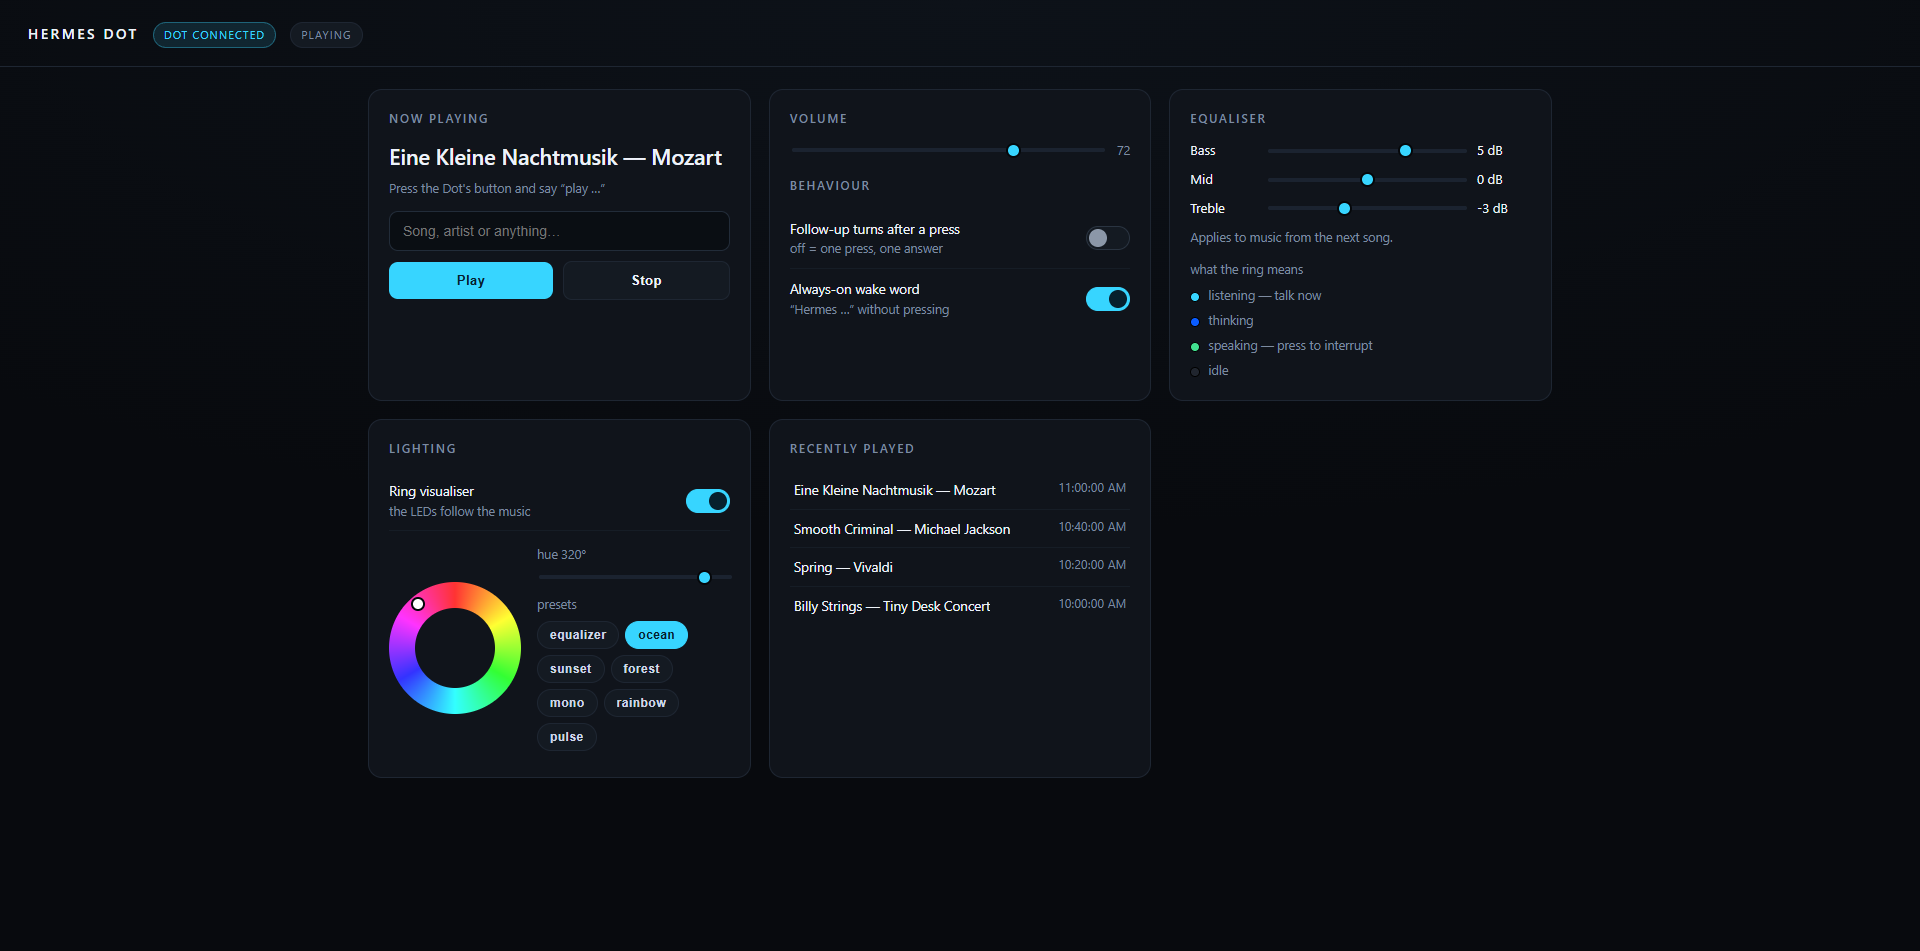
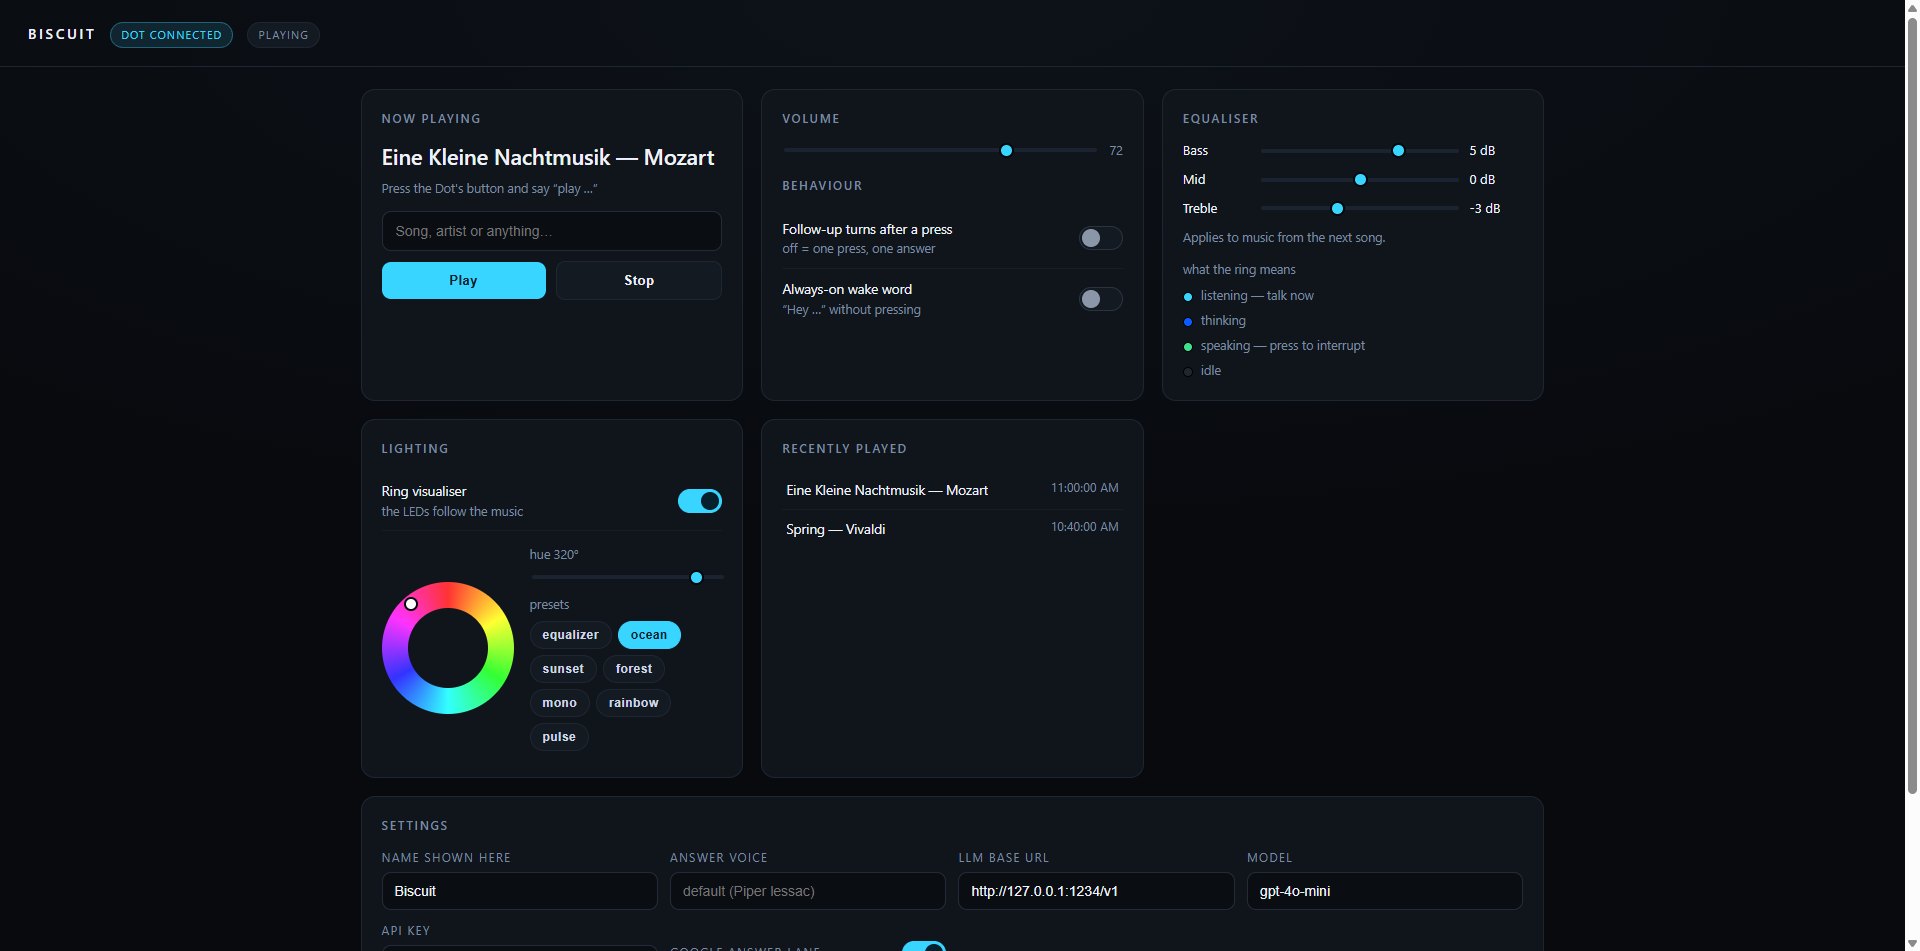
rename to Biscuit, add Settings panel (LLM url/model/key, Google lane, voice)

diff --git a/hermes_app/dashboard.py b/hermes_app/dashboard.py
@@ -22,6 +22,8 @@ DEFAULTS = {
     "volume": 60,
     "favourites": [],
     "lighting": {"enabled": True, "preset": "equalizer", "hue": 200, "brightness": 1.0},
+    "settings": {"title": "Biscuit", "llm_url": "", "llm_model": "", "llm_key": "",
+                 "google": True, "voice": ""},
 }
 
 
@@ -85,7 +87,7 @@ def eq_filter():
 
 
 PAGE = """<!doctype html><html><head><meta charset="utf-8">
-<title>Hermes Dot</title>
+<title>Biscuit</title>
 <meta name="viewport" content="width=device-width,initial-scale=1">
 <style>
 :root{--bg:#080a0e;--panel:#10141b;--line:#1e2632;--fg:#eef3fa;--dim:#7d8ba0;
@@ -143,6 +145,14 @@ input[type=range]::-webkit-slider-thumb{appearance:none;width:15px;height:15px;
 #wheel:after{content:"";position:absolute;inset:26px;border-radius:50%;background:var(--panel)}
 #wknob{position:absolute;width:14px;height:14px;border-radius:50%;background:#fff;
   border:2px solid #05070a;transform:translate(-50%,-50%);pointer-events:none;z-index:2}
+.full{grid-column:1/-1}
+.grid2{display:grid;gap:12px;grid-template-columns:repeat(auto-fit,minmax(240px,1fr))}
+.grid2 label{display:grid;gap:6px;font-size:12px;color:var(--dim);
+  text-transform:uppercase;letter-spacing:.1em}
+.grid2 input{background:#0a0e13;border:1px solid #222c39;color:var(--fg);
+  border-radius:9px;padding:10px 12px;font-size:14px;letter-spacing:0}
+.grid2 label.tgl{display:flex;align-items:center;justify-content:space-between;
+  text-transform:uppercase}
 .legend{display:grid;gap:7px;margin-top:8px;font-size:12.5px;color:var(--dim)}
 .legend i{display:inline-block;width:10px;height:10px;border-radius:50%;margin-right:8px;
   vertical-align:middle;border:1px solid #000}
@@ -151,7 +161,7 @@ input[type=range]::-webkit-slider-thumb{appearance:none;width:15px;height:15px;
   padding:6px 12px;font-size:12px;cursor:pointer}
 .chip.on{background:var(--cyan);color:#06202e;border-color:var(--cyan);font-weight:600}
 </style></head><body>
-<header><h1>Hermes Dot</h1><span id="dev" class="pill">connecting…</span><span id="mode" class="pill">—</span></header>
+<header><h1 id="brand">Biscuit</h1><span id="dev" class="pill">connecting…</span><span id="mode" class="pill">—</span></header>
 <main>
   <section>
     <h2>Now playing</h2>
@@ -169,7 +179,7 @@ input[type=range]::-webkit-slider-thumb{appearance:none;width:15px;height:15px;
     <div class="row"><input id="vol" type="range" min="0" max="100" oninput="setVol(this.value)"><span id="volv" class="dim"></span></div>
     <h2 style="margin-top:18px">Behaviour</h2>
     <div class="toggle"><span>Follow-up turns after a press<br><span class="dim">off = one press, one answer</span></span><div id="fu" class="sw" onclick="toggle('followups')"><i></i></div></div>
-    <div class="toggle"><span>Always-on wake word<br><span class="dim">“Hermes …” without pressing</span></span><div id="ao" class="sw" onclick="toggle('always_on')"><i></i></div></div>
+    <div class="toggle"><span>Always-on wake word<br><span class="dim">“Hey …” without pressing</span></span><div id="ao" class="sw" onclick="toggle('always_on')"><i></i></div></div>
   </section>
   <section>
     <h2>Equaliser</h2>
@@ -202,6 +212,24 @@ input[type=range]::-webkit-slider-thumb{appearance:none;width:15px;height:15px;
   <section>
     <h2>Recently played</h2>
     <ul id="hist"></ul>
+  </section>
+  <section class="full">
+    <h2>Settings</h2>
+    <div class="grid2">
+      <label>Name shown here<input id="s_title" type="text" placeholder="Biscuit"></label>
+      <label>Answer voice<input id="s_voice" type="text" placeholder="default (Piper lessac)"></label>
+      <label>LLM base URL<input id="s_url" type="text" placeholder="http://127.0.0.1:1234/v1"></label>
+      <label>Model<input id="s_model" type="text" placeholder="gpt-4o-mini"></label>
+      <label>API key<input id="s_key" type="password" placeholder="leave blank to keep"></label>
+      <label class="tgl">Google answer lane
+        <span id="s_google" class="sw" onclick="this.classList.toggle('on')"><i></i></span>
+      </label>
+    </div>
+    <div class="row" style="margin-top:14px">
+      <button onclick="saveSettings()">Save settings</button>
+      <span id="saved" class="dim"></span>
+    </div>
+    <div class="dim" style="margin-top:8px">No key and no URL? It still plays music, tells the time, and answers from the Google lane.</div>
   </section>
 </main>
 <script>
@@ -256,8 +284,35 @@ function initWheel(){
   });
 }
 function toggle(k){api('/api/config',{[k]:$('#'+(k==='followups'?'fu':'ao')).classList.contains('on')?0:1});}
+function paintSettings(s){
+  if(!s) return;
+  if(s.title) document.getElementById('brand').textContent=s.title;
+  document.title=(s.title||'Biscuit');
+  document.getElementById('s_title').value=s.title||'';
+  document.getElementById('s_voice').value=s.voice||'';
+  document.getElementById('s_url').value=s.llm_url||'';
+  document.getElementById('s_model').value=s.llm_model||'';
+  document.getElementById('s_google').classList.toggle('on', !!s.google);
+}
+async function saveSettings(){
+  const body={
+    title:document.getElementById('s_title').value.trim()||'Biscuit',
+    voice:document.getElementById('s_voice').value.trim(),
+    llm_url:document.getElementById('s_url').value.trim(),
+    llm_model:document.getElementById('s_model').value.trim(),
+    google:document.getElementById('s_google').classList.contains('on')
+  };
+  const k=document.getElementById('s_key').value.trim();
+  if(k) body.llm_key=k;
+  await api('/api/settings', body);
+  document.getElementById('s_key').value='';
+  document.getElementById('saved').textContent='saved';
+  setTimeout(()=>document.getElementById('saved').textContent='',1600);
+  refresh();
+}
 async function refresh(){
   const s=await api('/api/state');
+  paintSettings(s.settings);
   $('#dev').textContent=s.device?'Dot connected':'Dot offline';
   $('#dev').className='pill '+(s.device?'on':'off');
   $('#mode').textContent=s.playing?'playing':'idle';

diff --git a/controller.py b/controller.py
@@ -237,6 +237,24 @@ PRESETS = {
 }
 
 
+SETTINGS = {"title": "Biscuit", "llm_url": "", "llm_model": "", "llm_key": "",
+            "google": True, "voice": ""}
+
+
+def load_settings():
+    """Settings the user can change from the dashboard, not just at launch."""
+    global SETTINGS
+    if not HAVE_DASH:
+        return
+    try:
+        cfg = hdash.load_config()
+        st = cfg.get("settings") or {}
+        SETTINGS.update({k: v for k, v in st.items() if v not in (None, "")})
+        log("settings:", {k: ("***" if k == "llm_key" and v else v) for k, v in SETTINGS.items()})
+    except Exception as e:
+        log("settings load failed:", e)
+
+
 def load_lighting():
     """Pick up the saved palette at startup so a restart keeps the look."""
     try:
@@ -927,7 +945,7 @@ async def voice_loop(max_turns=None, follow_up_wait=9.0):
             await speak("Stopped.")
             break
         if not needs_agent(text):
-            if HAVE_WEB and not os.environ.get("DOT_DISABLE_GOOGLE"):
+            if HAVE_WEB and SETTINGS.get("google", True) and not os.environ.get("DOT_DISABLE_GOOGLE"):
                 try:
                     ga, kind = await hweb.google_answer(text)
                     log(f"turn {n} google lane ({kind}): {ga[:110]}")
@@ -1114,11 +1132,12 @@ def _llm_ask(text):
     Ollama's /v1, or a box in the cupboard. This is the lane that makes the
     project agent-agnostic -- nothing here needs Hermes to be installed."""
     import urllib.request
-    base = os.environ["DOT_LLM_URL"].rstrip("/")
+    url = SETTINGS.get("llm_url") or os.environ.get("DOT_LLM_URL", "")
+    base = url.rstrip("/")
     if not base.endswith("/chat/completions"):
         base += "/chat/completions"
     body = {
-        "model": os.environ.get("DOT_LLM_MODEL", "gpt-4o-mini"),
+        "model": SETTINGS.get("llm_model") or os.environ.get("DOT_LLM_MODEL", "gpt-4o-mini"),
         "messages": [{"role": "system", "content": PERSONA},
                      {"role": "user", "content": text}],
         "max_tokens": int(os.environ.get("DOT_LLM_MAX_TOKENS", "220")),
@@ -1143,7 +1162,7 @@ def _hermes_ask(text):
     stored on one turn was recalled on the next, same session_id) and, with -Q,
     prints only the answer plus a session_id line we strip.
     """
-    if os.environ.get("DOT_LLM_URL"):
+    if SETTINGS.get("llm_url") or os.environ.get("DOT_LLM_URL"):
         try:
             out = _llm_ask(text)
             log(f"brain: llm endpoint answered ({len(out)} chars)")
@@ -1465,6 +1484,8 @@ async def any_route(request):
         cfg = hdash.load_config() if HAVE_DASH else {}
         task = MUSIC.get("task")
         return web.json_response({
+            "settings": {**{k: v for k, v in SETTINGS.items() if k != "llm_key"},
+                         "has_key": bool(SETTINGS.get("llm_key"))},
             "device": DEVICE_WS is not None and not getattr(DEVICE_WS, "closed", True),
             "playing": bool(task and not task.done()),
             "now_playing": MUSIC.get("title") or "",
@@ -1503,6 +1524,29 @@ async def any_route(request):
         except Exception as e:
             return web.json_response({"ok": False, "error": str(e)}, status=503)
         return web.json_response({"ok": True, "volume": level})
+
+    if request.method == "GET" and request.path == "/api/settings":
+        safe = dict(SETTINGS)
+        safe["llm_key"] = ""          # never echo a secret back to the page
+        safe["has_key"] = bool(SETTINGS.get("llm_key"))
+        return web.json_response(safe)
+
+    if request.method == "POST" and request.path == "/api/settings":
+        body = await request.json()
+        for k in ("title", "llm_url", "llm_model", "llm_key", "voice"):
+            if k in body and isinstance(body[k], str):
+                SETTINGS[k] = body[k].strip()
+        if "google" in body:
+            SETTINGS["google"] = bool(body["google"])
+        if HAVE_DASH:
+            try:
+                hdash.save_config({"settings": SETTINGS})
+            except Exception as e:
+                log("settings save failed:", e)
+        log("settings updated:", {k: ("***" if k == "llm_key" and v else v)
+                                  for k, v in SETTINGS.items()})
+        safe = dict(SETTINGS); safe["llm_key"] = ""
+        return web.json_response({"ok": True, "settings": safe})
 
     if request.method == "GET" and request.path == "/api/lighting":
         return web.json_response({**LIGHT, "presets": list(PRESETS)})
@@ -1739,6 +1783,7 @@ async def main():
     from concurrent.futures import ThreadPoolExecutor
     asyncio.get_event_loop().set_default_executor(ThreadPoolExecutor(max_workers=16))
     load_lighting()
+    load_settings()
     asyncio.create_task(asyncio.to_thread(_warm))
 
     info = ServiceInfo(
